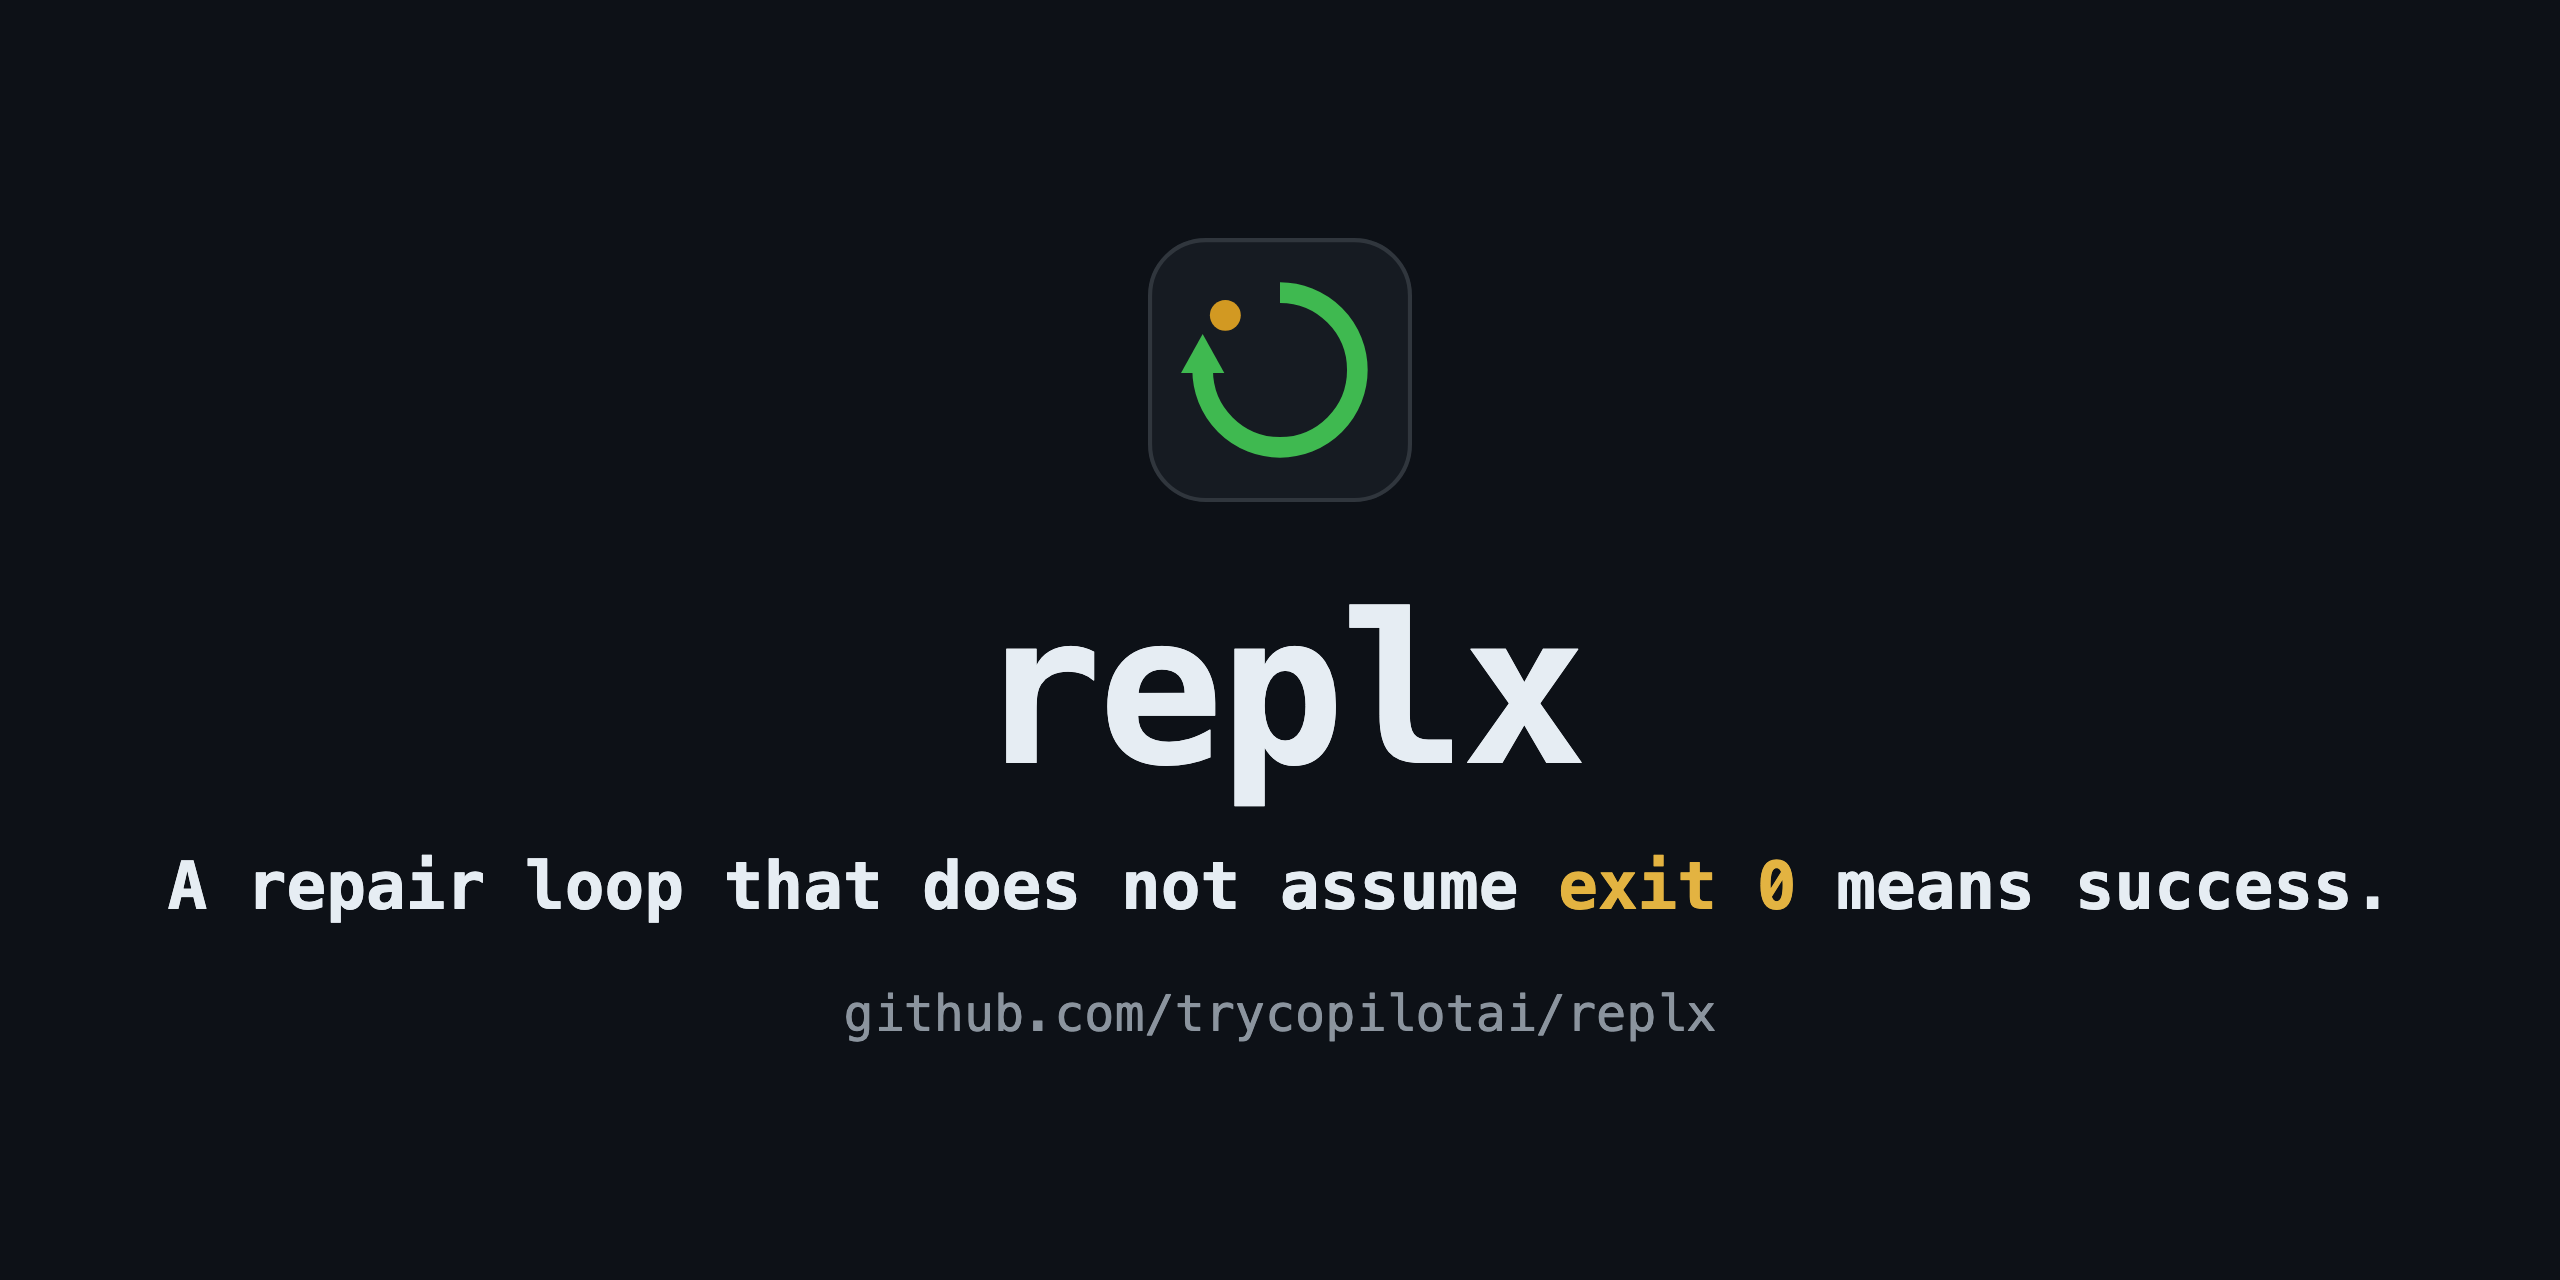
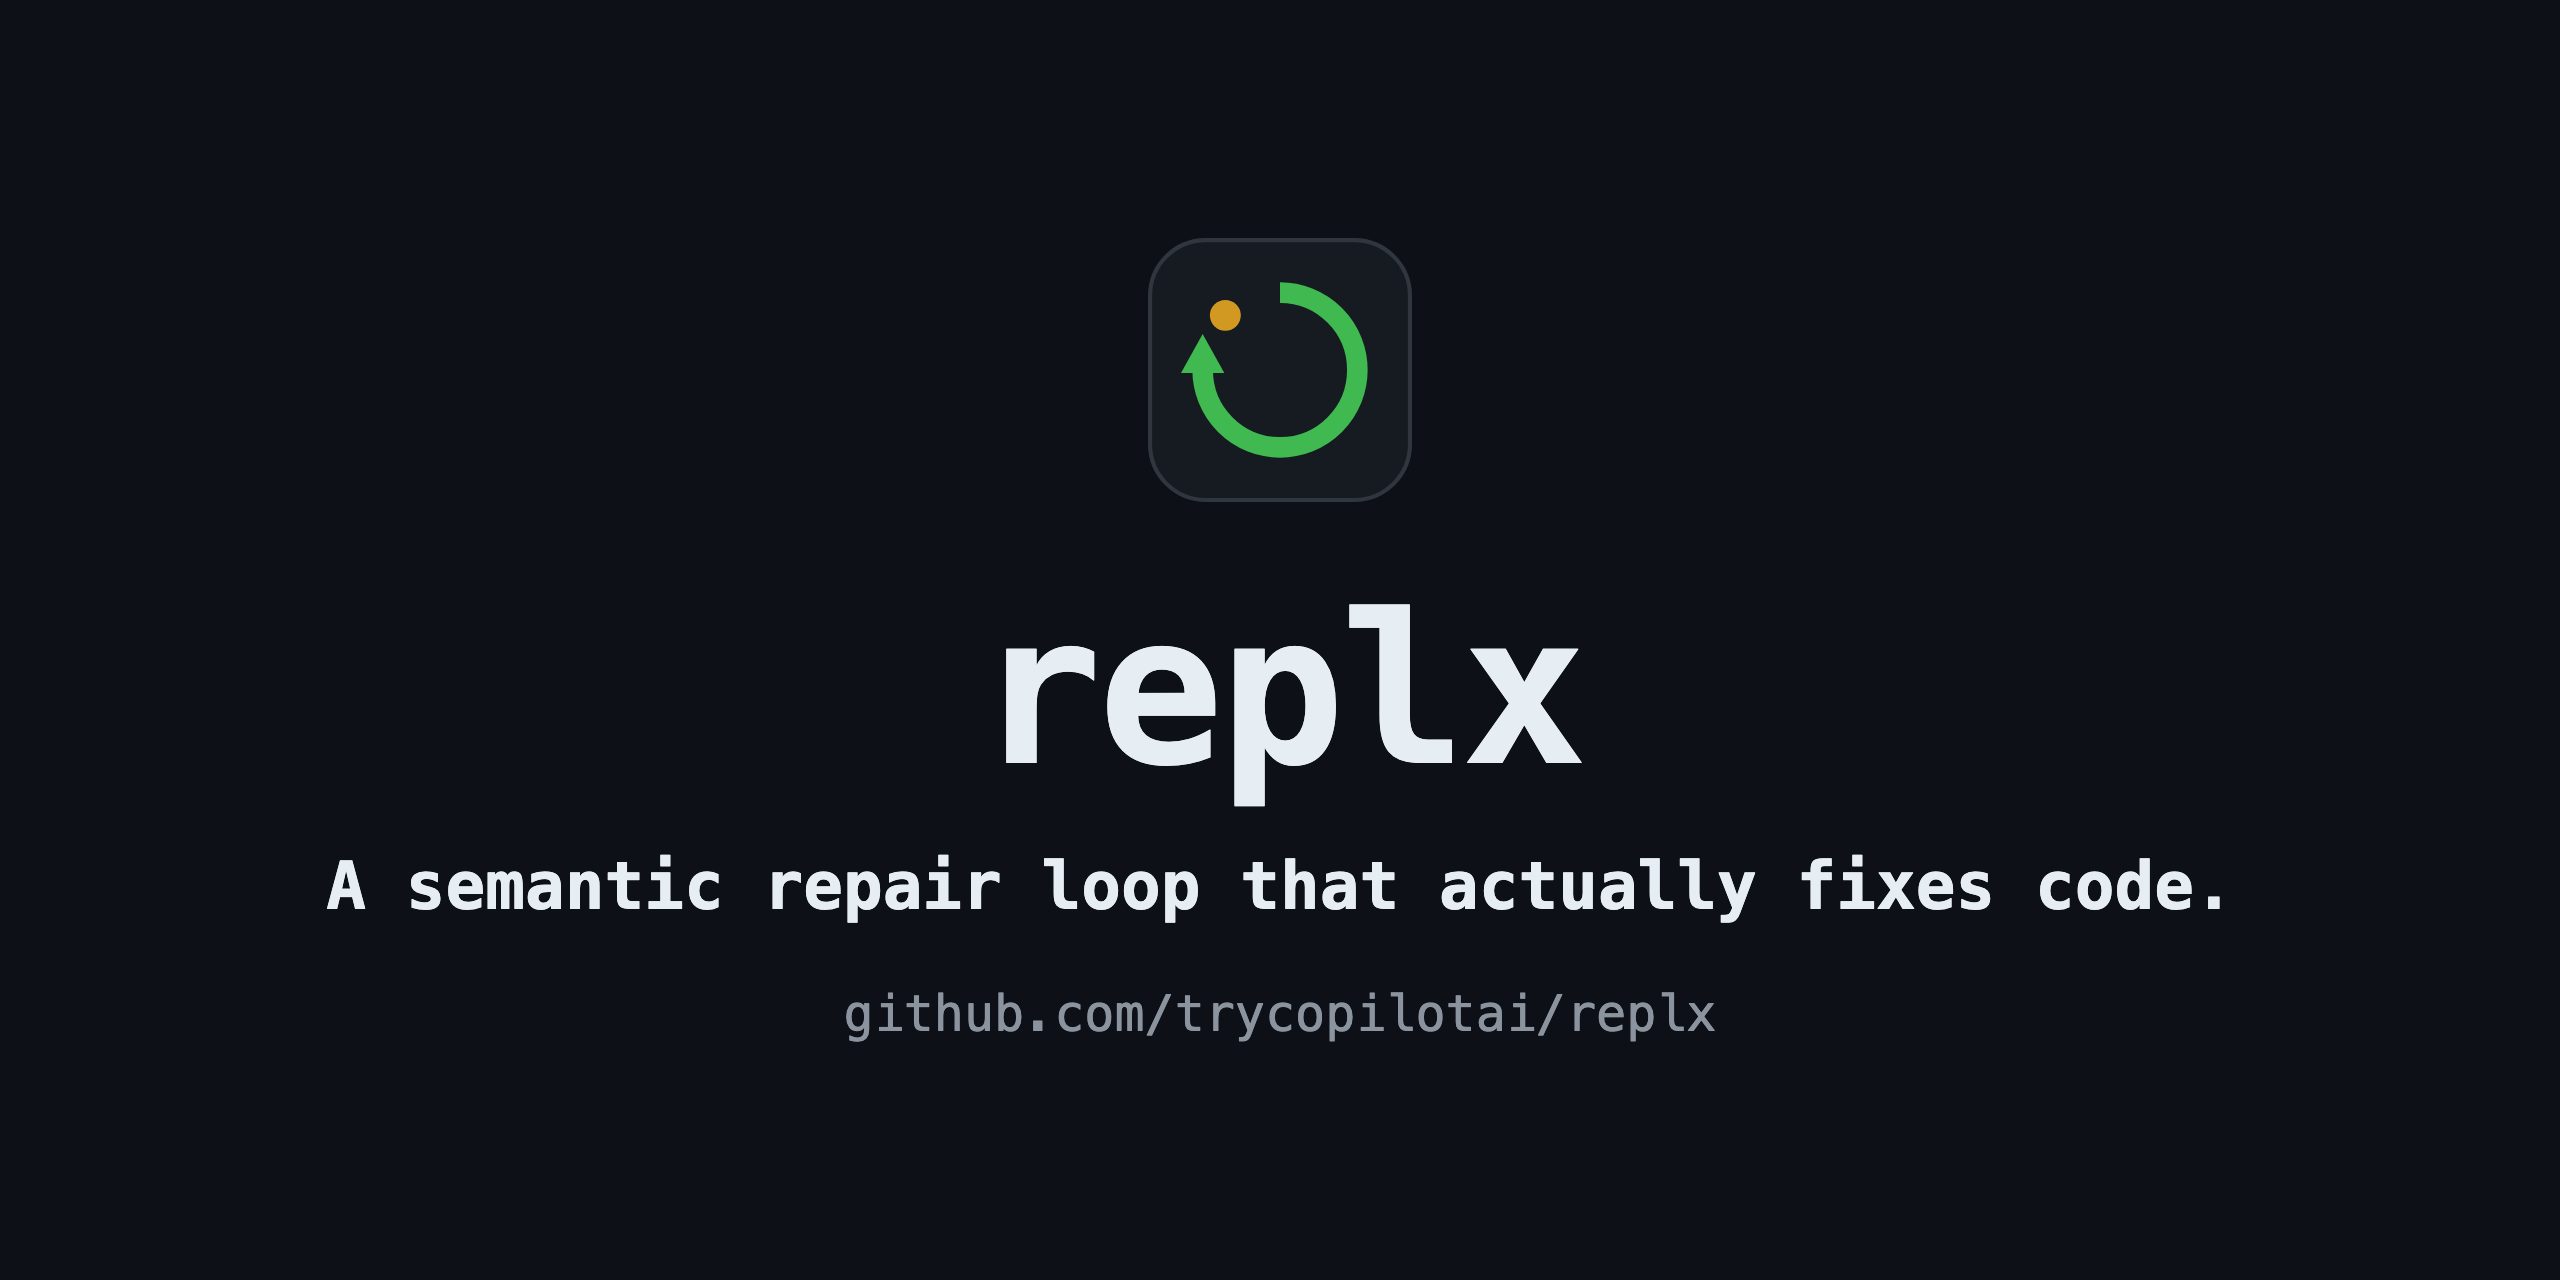
Read the social card's headline from the README instead of restating it
The card still said "A repair loop that does not assume exit 0
means success" after the README had stopped saying it. Nobody
would have noticed from inside the repository, because the
social preview is the one surface you never look at while
working: it renders on Twitter, in Slack unfurls, and in the
GitHub org listing, and nowhere on the page itself.

This is the same failure the demo had and was fixed for: a
value typed into the generator, drifting away from the file
that owns it. Same fix. PREVIEW now takes the headline as a
parameter and build.py reads it out of README.md, so the two
cannot disagree.

Changed region(s): [[0.0625, 0.6562, 0.9375, 0.7188]]

diff --git a/assets/build.py b/assets/build.py
@@ -82,6 +82,22 @@ def clip(text: str, limit: int) -> str:
     return text[:limit].rsplit(" ", 1)[0] + "..."
 
 
+def read_headline() -> str:
+    """The README's headline, so the preview cannot contradict it.
+
+    This used to be typed into PREVIEW directly, and it went
+    stale the moment the README was reworded: the social card
+    still promised a loop that distrusts exit codes after the
+    page above it had stopped claiming that.
+    """
+    text = (REPO / "README.md").read_text(encoding="utf-8")
+    found = re.search(
+        r'<p align="center"><strong>(.+?)</strong></p>', text)
+    if not found:
+        raise SystemExit("README has no centred headline to read")
+    return found.group(1).strip()
+
+
 def read_transcript() -> dict:
     """Pull the run's facts out of the committed transcript."""
     text = TRANSCRIPT.read_text(encoding="utf-8")
@@ -216,8 +232,7 @@ PREVIEW = """<!doctype html>
     <circle cx="150" cy="150" r="30" fill="#d29922"/>
   </svg>
   <h1>replx</h1>
-  <div class="tag">A repair loop that does not assume
-    <span class="zero">exit 0</span> means success.</div>
+  <div class="tag">{headline}</div>
   <div class="sub">github.com/trycopilotai/replx</div>
 </body></html>
 """
@@ -251,7 +266,8 @@ def main() -> int:
                             w=WIDTH, h=height, body="\n".join(body))
         shoot(html, WIDTH, height, OUT / ("frame-%02d.png" % index))
 
-    shoot(PREVIEW.format(bg=BG, fg=FG, dim=DIM, amber=AMBER, font=FONT),
+    shoot(PREVIEW.format(bg=BG, fg=FG, dim=DIM, amber=AMBER, font=FONT,
+                         headline=esc(read_headline())),
           1280, 640, ASSETS / "social-preview.png")
 
     # Short even delays so it reads as output arriving rather
